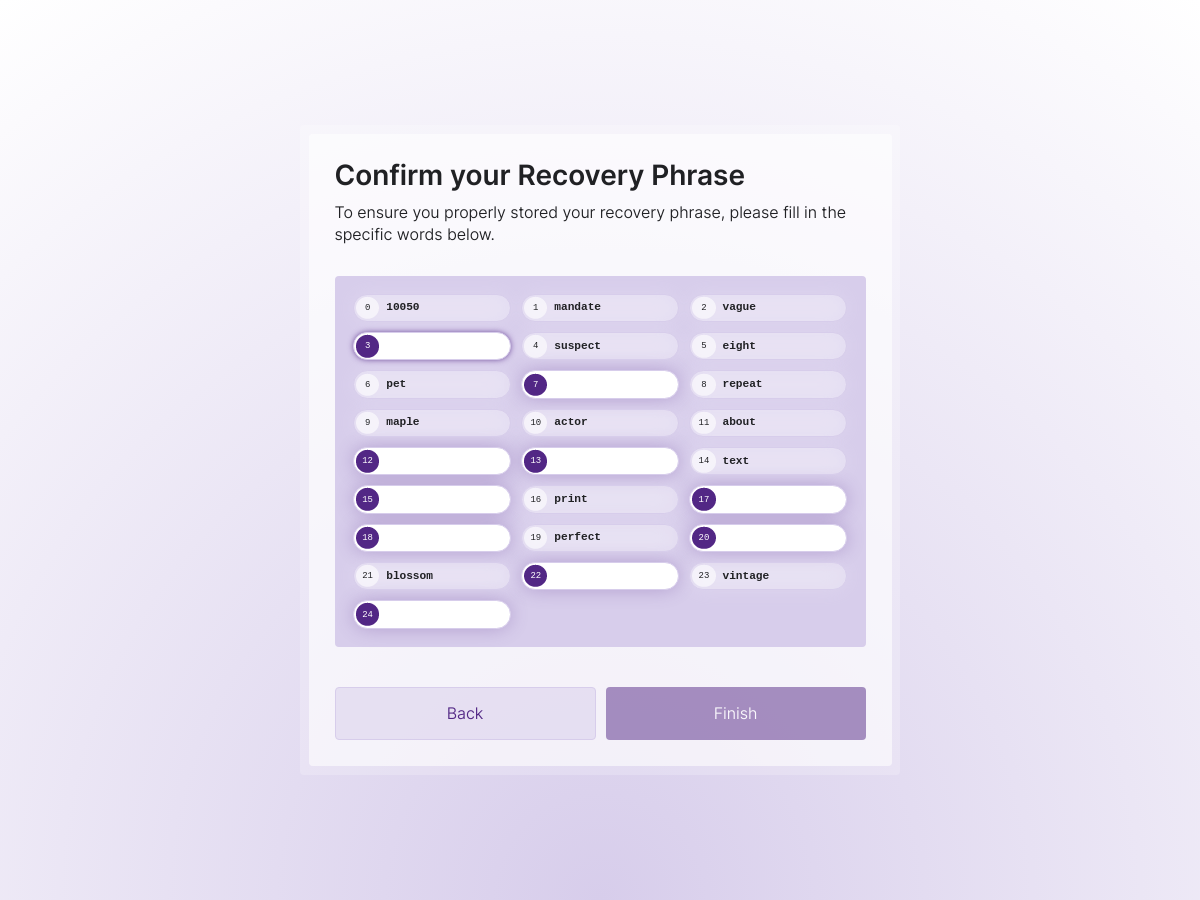
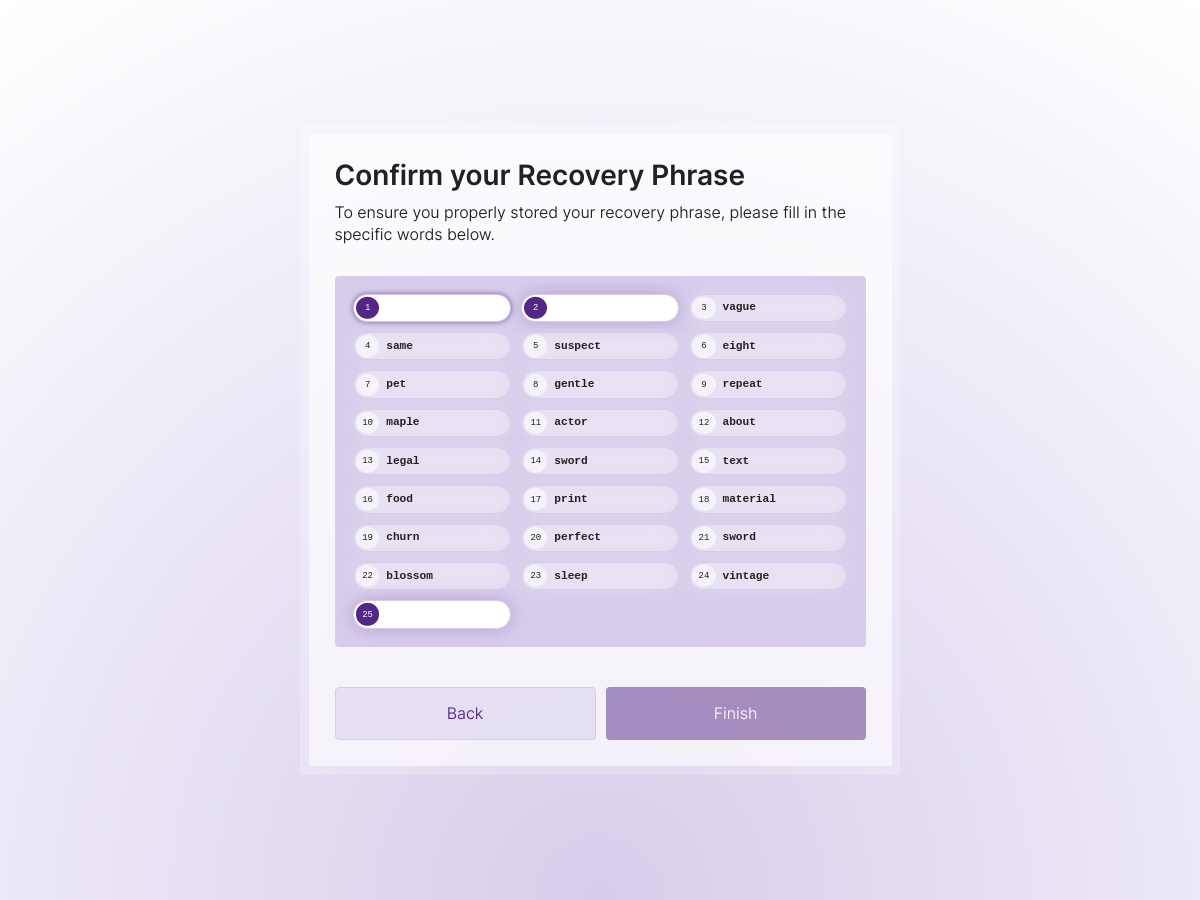
Update recovery confirmation indices (#1343)
* Update recovery confirmation indices

Only ask to confirm anchor, first and last word (requested by product),
and fix an index rendering issue (indices were shown as 0-indexed).

* 🤖 Selenium screenshots auto-update

---------

Changed region(s): [[0.2775, 0.4978, 0.7092, 0.6533], [0.2775, 0.3111, 0.5858, 0.4044], [0.4317, 0.4044, 0.5858, 0.4667]]

diff --git a/src/frontend/src/flows/recovery/confirmSeedPhrase.ts b/src/frontend/src/flows/recovery/confirmSeedPhrase.ts
@@ -16,7 +16,7 @@ type Word = { word: string } & (
 );
 
 // A list of indices nicely spread over the 25 words (anchor + 24 BIP39)
-export const checkIndices = [3, 7, 12, 13, 15, 17, 18, 20, 22, 24];
+export const checkIndices = [0, 1, 24];
 
 // Check that a word has been input correctly
 const checkWord = (word: Word): boolean =>
@@ -122,7 +122,7 @@ export const wordTemplate = ({
   // In the simple case the word doesn't need checking and is simply displayed
   if (!word.check) {
     return html`<li
-      style="--index: '${i}'"
+      style="--index: '${i + 1}'"
       class="c-list--recovery-word c-list--recovery-word__disabled"
     >
       ${word.word}
@@ -155,7 +155,7 @@ export const wordTemplate = ({
   );
 
   return html`<li
-    style="--index: '${i}'"
+    style="--index: '${i + 1}'"
     class="c-list--recovery-word ${asyncReplace(clazz)}"
   >
     ${asyncReplace(icon)}
